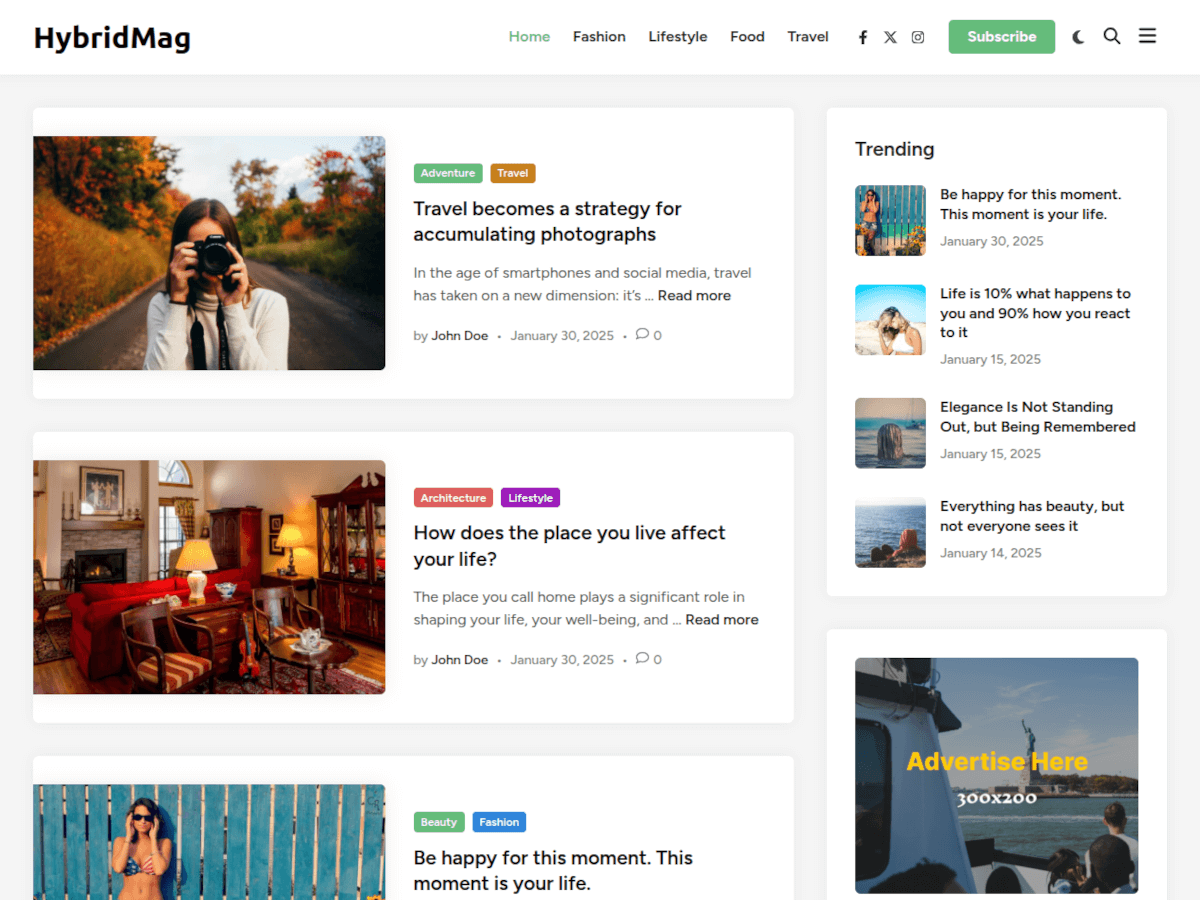
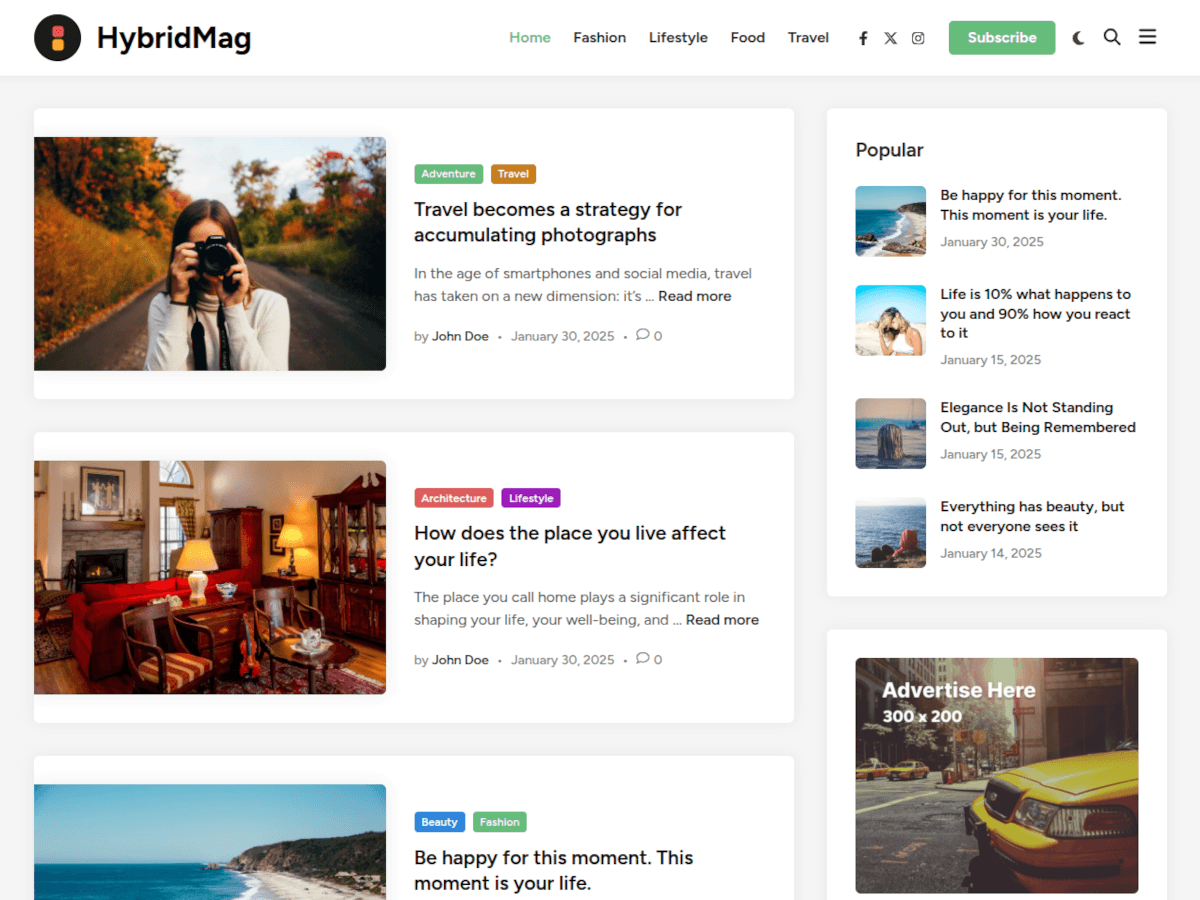
1.1.2

diff --git a/hybridmag/style.css b/hybridmag/style.css
@@ -5,8 +5,8 @@ Theme URI: https://themezhut.com/themes/hybridmag/
 Author: ThemezHut
 Author URI: https://themezhut.com
 Description: HybridMag is a modern and stylish WordPress theme for blogs, newspapers, and magazine websites. The advanced options provided with HybridMag allow you to tailor every aspect of your website to match your brand, making it the best choice for online publishers.
-Version: 1.1.1
-Tested up to: 6.9
+Version: 1.1.2
+Tested up to: 7.0
 Requires PHP: 7.0
 License: GNU General Public License v2 or later
 License URI: http://www.gnu.org/licenses/gpl-2.0.html
@@ -2082,17 +2082,17 @@ html.hm-dark .site-footer a:hover {
 .hm-h-lg .main-navigation ul ul li a:hover::before {
   display: none;
 }
-.hm-h-lg .main-navigation ul ul .current_page_item > a,
-.hm-h-lg .main-navigation ul ul .current-menu-item > a,
-.hm-h-lg .main-navigation ul ul .current_page_ancestor > a,
-.hm-h-lg .main-navigation ul ul .current-menu-ancestor > a {
-  background: #fafafa;
-}
 .hm-h-lg .main-navigation ul ul .current_page_item > a::before,
 .hm-h-lg .main-navigation ul ul .current-menu-item > a::before,
 .hm-h-lg .main-navigation ul ul .current_page_ancestor > a::before,
 .hm-h-lg .main-navigation ul ul .current-menu-ancestor > a::before {
   display: none;
+}
+.hm-h-lg .main-navigation ul ul .current_page_item > a,
+.hm-h-lg .main-navigation ul ul .current-menu-item > a,
+.hm-h-lg .main-navigation ul ul .current_page_ancestor > a,
+.hm-h-lg .main-navigation ul ul .current-menu-ancestor > a {
+  background: #fafafa;
 }
 .hm-h-lg .main-navigation ul ul a {
   color: #2c2b2b;
@@ -3108,14 +3108,14 @@ html.hm-dark .site-footer a:hover {
 }
 
 /* Featured Posts Small */
-.hm-fp-small-top {
-  margin-bottom: 50px;
-}
 @media (min-width: 600px) {
   .hm-fp-small-top {
     display: flex;
     gap: 30px;
   }
+}
+.hm-fp-small-top {
+  margin-bottom: 50px;
 }
 
 .hm-fp-small {
@@ -3661,12 +3661,6 @@ li.hm-tab.th-ui-state-active a {
   margin-bottom: 80px;
 }
 
-.hm-tabs-view-more {
-  text-align: center;
-  font-weight: var(--hybridmag-font-weight-headings);
-  margin: 20px 0 0;
-  display: block;
-}
 @media (min-width: 768px) {
   .hm-tabs-view-more {
     position: absolute;
@@ -3676,6 +3670,12 @@ li.hm-tab.th-ui-state-active a {
     font-size: var(--hybridmag-font-size-sm);
     text-align: right;
   }
+}
+.hm-tabs-view-more {
+  text-align: center;
+  font-weight: var(--hybridmag-font-weight-headings);
+  margin: 20px 0 0;
+  display: block;
 }
 
 .hm-sidebar-posts .widget-title {

diff --git a/hybridmag/style-rtl.css b/hybridmag/style-rtl.css
@@ -5,8 +5,8 @@ Theme URI: https://themezhut.com/themes/hybridmag/
 Author: ThemezHut
 Author URI: https://themezhut.com
 Description: HybridMag is a modern and stylish WordPress theme for blogs, newspapers, and magazine websites. The advanced options provided with HybridMag allow you to tailor every aspect of your website to match your brand, making it the best choice for online publishers.
-Version: 1.1.1
-Tested up to: 6.9
+Version: 1.1.2
+Tested up to: 7.0
 Requires PHP: 7.0
 License: GNU General Public License v2 or later
 License URI: http://www.gnu.org/licenses/gpl-2.0.html

diff --git a/hybridmag/template-parts/featured/tabs.php b/hybridmag/template-parts/featured/tabs.php
@@ -94,7 +94,10 @@ for ( $i = 1; $i <= 5; $i++ ) {
 
                 <?php
                     $view_all_link = hybridmag_get_viewall_link( $cat );
-                    $view_all_text = get_theme_mod( 'hybridmag_tabbed_view_all_text', 'View More' );
+                    $view_all_text = get_theme_mod(
+                        'hybridmag_tabbed_view_all_text',
+                        esc_html__( 'View More', 'hybridmag' )
+                    );
 
                     if ( ! empty( $view_all_link ) && ! empty( $view_all_text ) ) {
                         echo '<span class="hm-tabs-view-more">';